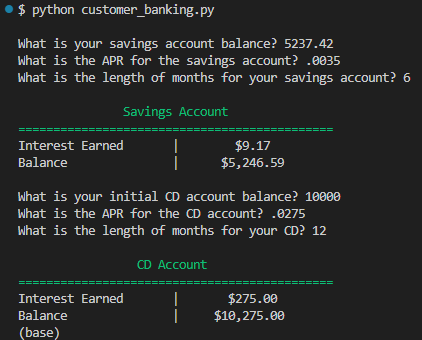
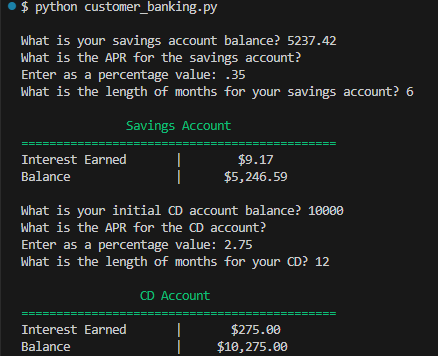
Changed value needed for APR. Before it was decimal value of a percentage. Now you can just enter a percentage without converting it to its decimal value

diff --git a/banking/customer_banking.py b/banking/customer_banking.py
@@ -11,7 +11,7 @@ def main():
     """
     # Prompt the user to set the savings balance, interest rate, and months for the savings account.
     savings_balance = float(input("\nWhat is your savings account balance? "))
-    savings_int_rate = float(input("What is the APR for the savings account? "))
+    savings_int_rate = float(input("What is the APR for the savings account? \nEnter as a percentage value: "))
     savings_maturity = int(input("What is the length of months for your savings account? "))
 
     # Call the create_savings_account function and pass the variables from the user.
@@ -24,7 +24,7 @@ def main():
 
     # Prompt the user to set the CD balance, interest rate, and months for the CD account.
     cd_balance = float(input("\nWhat is your initial CD account balance? "))
-    cd_interest = float(input("What is the APR for the CD account? "))
+    cd_interest = float(input("What is the APR for the CD account? \nEnter as a percentage value: "))
     cd_maturity = int(input("What is the length of months for your CD? "))
 
     # Call the create_cd_account function and pass the variables from the user.

diff --git a/banking/savings_account.py b/banking/savings_account.py
@@ -20,7 +20,7 @@ def create_savings_account(balance, interest_rate, months):
     savings_account = Account(balance, interest)
 
     # Calculate interest earned
-    interest_earned = round(balance * (interest_rate * months / 12), 2)
+    interest_earned = round(balance * (interest_rate / 100 * months / 12), 2)
 
     # Update the savings account balance by adding the interest earned
     updated_balance = balance + interest_earned

diff --git a/banking/cd_account.py b/banking/cd_account.py
@@ -19,7 +19,7 @@ def create_cd_account(balance, interest_rate, months):
     cd_account = Account(balance, interest)
 
     # Calculate interest earned
-    interest_earned = round(balance * (interest_rate * months / 12), 2)
+    interest_earned = round(balance * (interest_rate / 100 * months / 12), 2)
 
     # Update the CD account balance by adding the interest earned
     updated_balance = balance + interest_earned
